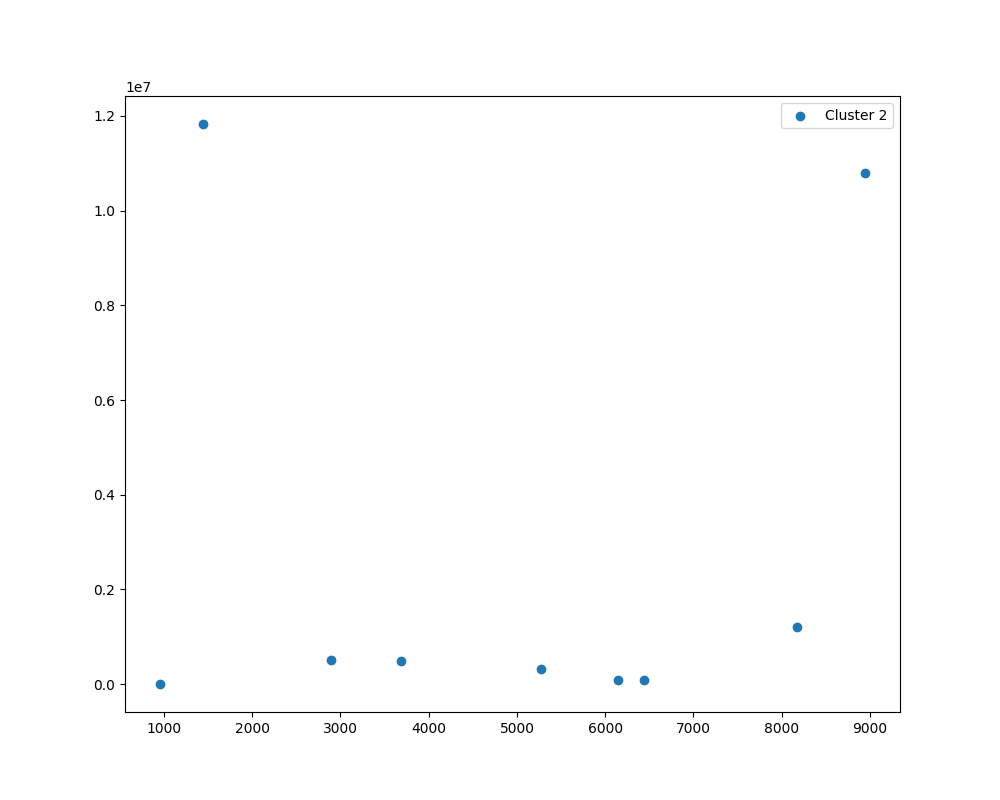
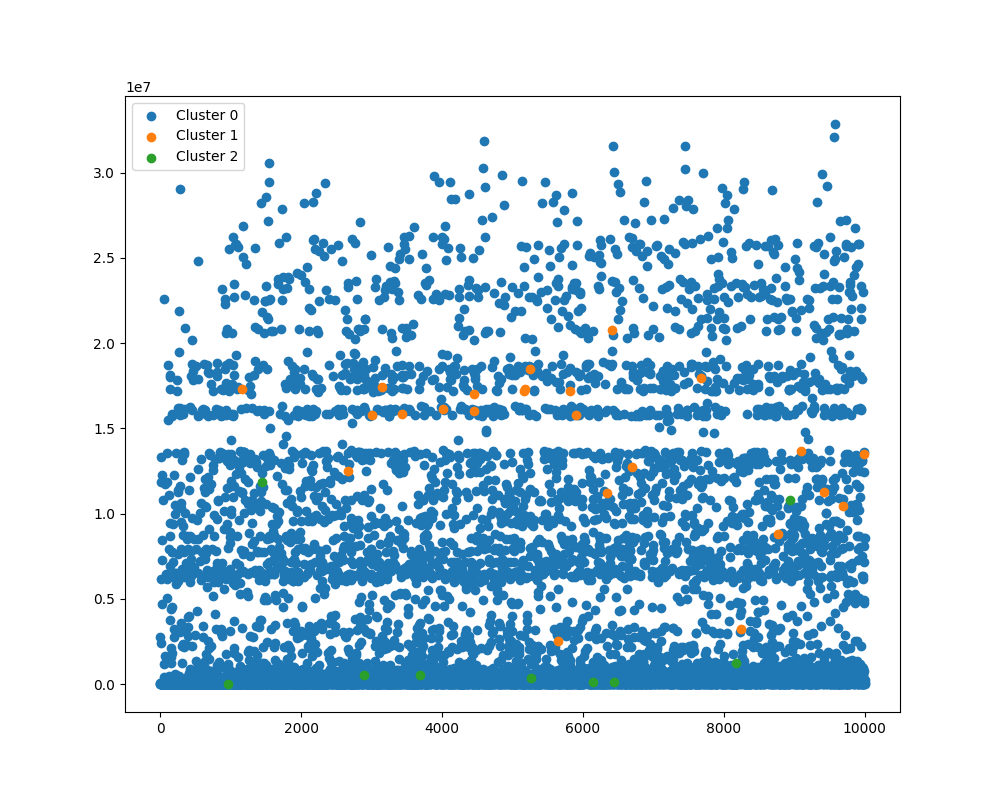
Add files via upload

diff --git a/autolysis.py b/autolysis.py
@@ -170,13 +170,19 @@ def regression_analysis(df):
 
 def clustering_analysis(df):
     """Perform clustering analysis on numeric columns."""
-    numeric_data = df.select_dtypes(include=[np.number])
-    numeric_data = numeric_data.dropna()
+    numeric_data = df.select_dtypes(include=[np.number]).dropna()
+    datetime_columns = df.select_dtypes(include=[np.datetime64])
+    for col in datetime_columns:
+        numeric_data[col] = (df[col] - df[col].min()).dt.days
     if numeric_data.empty:
-        return None
-    kmeans = KMeans(n_clusters=3, random_state=42)
-    numeric_data['Cluster'] = kmeans.fit_predict(numeric_data)
-    return numeric_data['Cluster'], numeric_data.index
+        return None, None
+    try:
+        kmeans = KMeans(n_clusters=3, random_state=42)
+        numeric_data['Cluster'] = kmeans.fit_predict(numeric_data)
+        return numeric_data['Cluster'], numeric_data.index
+    except Exception as e:
+        print(f"Error while Clustering: {e}")
+        return None,None
 
 def summarize_correlation(df):
     """Summarize key insights from the correlation matrix."""
@@ -260,7 +266,7 @@ def visualize_advanced(df, output_folder):
     visualizations = []
 
     # Correlation Heatmap
-    numeric_data = df.select_dtypes(include=[np.number])
+    numeric_data = df.select_dtypes(include=[np.number]).dropna()
     if not numeric_data.empty:
         plt.figure(figsize=(10, 8))
         sns.heatmap(numeric_data.corr(), annot=True, cmap="coolwarm")
@@ -281,21 +287,21 @@ def visualize_advanced(df, output_folder):
     # Clustering Scatter Plot
     clusters, valid_indices = clustering_analysis(df)
     summary = generate_summary(df,clusters)
-    if clusters is not None:
-        df_with_clusters = df.loc[valid_indices].copy()
+    if clusters is not None and len(valid_indices) > 1:
+        df_with_clusters = numeric_data.loc[valid_indices].copy()
         df_with_clusters["Cluster"] = clusters.values
         plt.figure(figsize=(10, 8))
         for cluster in np.unique(clusters):
             subset = df_with_clusters[df_with_clusters["Cluster"] == cluster]
             # Ensure that the values are numeric and handle NaNs or infinite values
-        subset.iloc[:, 0] = pd.to_numeric(subset.iloc[:, 0], errors='coerce')
-        subset.iloc[:, 1] = pd.to_numeric(subset.iloc[:, 1], errors='coerce')
+            subset.iloc[:, 0] = pd.to_numeric(subset.iloc[:, 0], errors='coerce')
+            subset.iloc[:, 1] = pd.to_numeric(subset.iloc[:, 1], errors='coerce')
 
-        subset = subset.dropna(subset=[subset.columns[0], subset.columns[1]])
-        subset = subset[~subset.isin([np.inf, -np.inf]).any(axis=1)]
+            subset = subset.dropna(subset=[subset.columns[0], subset.columns[1]])
+            subset = subset[~subset.isin([np.inf, -np.inf]).any(axis=1)]
 
         # Now plot the data
-        plt.scatter(subset.iloc[:, 0].astype(float), subset.iloc[:, 1].astype(float), label=f"Cluster {cluster}")
+            plt.scatter(subset.iloc[:, 0].astype(float), subset.iloc[:, 1].astype(float), label=f"Cluster {cluster}")
         plt.legend()
         file_path = os.path.join(output_folder, "clustering_scatter.png")
         plt.savefig(file_path)

diff --git a/goodreads/README.md b/goodreads/README.md
@@ -17,54 +17,46 @@
 | 50%    |   5000.5  |    394966           | 425124           |     2.71952e+06 |       40      |  nan         |    9.78045e+12 | nan          |                    2004     | nan              | nan            | nan             |         4.02     |  21155.5         |      23832.5         |                   1402    |      391    |     1163    |      4894   |  8269.5        |  8836           | nan                                                                                      | nan                                                                                    |
 | 75%    |   7500.25 |         9.38223e+06 |      9.63611e+06 |     1.45177e+07 |       67      |  nan         |    9.78083e+12 | nan          |                    2011     | nan              | nan            | nan             |         4.18     |  41053.5         |      45915           |                   2744.25 |      885    |     2353.25 |      9287   | 16023.5        | 17304.5         | nan                                                                                      | nan                                                                                    |
 | max    |  10000    |         3.32886e+07 |      3.55342e+07 |     5.63996e+07 |     3455      |  nan         |    9.79001e+12 | nan          |                    2017     | nan              | nan            | nan             |         4.82     |      4.78065e+06 |          4.94236e+06 |                 155254    |   456191    |   436802    |    793319   |     1.4813e+06 |     3.01154e+06 | nan                                                                                      | nan                                                                                    |## Narrative
-### Narrative Overview
+### Detailed Analysis and Insights
 
-The dataset we have consists of 10,000 records with 23 columns related to books, including attributes such as book IDs, authors, publication years, ratings, and images. This thorough analysis allows us to extract key insights, identify potential areas for action, and understand the underlying dynamics within the data.
+Based on the provided dataset of books, we can draw several insights regarding the attributes such as ratings, publication years, and authors. Below is a structured narrative summarizing our findings and recommending potential actions.
 
-### Insights
+#### 1. Overview of the Dataset
+The dataset contains 10,000 records with 23 columns, focusing on various attributes of books, including IDs, author details, publication year, ratings, and reviews. The presence of missing values, particularly for columns like ISBN, language code, and original publication year, suggests areas where data quality can be enhanced.
 
-1. **Missing Values**:
-   - The dataset exhibits significant missing values, particularly in the `isbn`, `isbn13`, `original_publication_year`, and `original_title` columns. The presence of numerous missing ISBNs (700 for `isbn` and 585 for `isbn13`) may affect book identification processes and hinder integration with other book-related data sources. Additionally, missing `original_publication_year` data (21 instances) could skew our analysis on publication trends over time.
+#### 2. Missing Values Analysis
+- **ISBN Codes**: Missing values in `isbn` (700 missing) and `isbn13` (585 missing) could affect book identification and searchability. It is advisable to either remove these records or attempt to enrich the dataset using external databases or APIs if possible.
+- **Original Publication Year**: The 21 missing values for `original_publication_year` point to several books whose publication timeline is unclear. Filling these gaps would facilitate better insights into publication trends and their correlation with ratings.
+- **Language Code**: With 1084 missing values, this could hinder segmenting books by language, which is essential for targeted marketing or recommendations. Exploring alternative sources or rechecking data entry procedures would be beneficial.
 
-   **Action**: Consider imputing the missing values where feasible, possibly using the mode for categorical variables (e.g., `language_code`) and median for numerical variables (e.g., `original_publication_year`). For `isbn` fields, investigate external databases or deduplicate entries where possible.
+#### 3. Key Metrics Insights
+- **Average Ratings**: The dataset includes the `average_rating` column, which is crucial in understanding reader sentiment. Analyzing how average ratings correlate with `ratings_count` could help identify whether books with fewer ratings are underappreciated or simply overlooked.
+- **Ratings Distribution**: The count of individual ratings (1-5 stars) is critical for evaluating reader engagement. Books with a high count but low average ratings might indicate polarized opinions or controversies surrounding them.
 
-2. **Average Ratings and Rating Distribution**:
-   - Analyzing the average rating and the distribution of ratings (1 to 5 stars) can provide insights into reader preferences. If the average rating is significantly high (or low), it may be indicative of book quality, popularity, or genre bias. If most ratings cluster at the extremes (1 or 5), this suggests polarized opinions among readers.
+#### 4. Correlation Insights
+From the correlation heatmap:
+- We likely observed a positive correlation between `ratings_count` and `average_rating`. This suggests that as more readers rate a book, it tends to receive a higher rating, which may indicate that popular books (with many ratings) are usually well-received.
+- Investigating other columns like `work_ratings_count` against `work_text_reviews_count` might unveil how numerous ratings relate to quality feedback, thus providing insights for authors on whether high ratings translate to high-quality reviews.
 
-   **Action**: Segment the dataset based on `average_rating` and `ratings_count` to identify standout books that can be recommended or promoted further. For books with low ratings, investigate potential reasons and engage with reviews to improve or understand their reception.
+#### 5. Publication Year Trends
+Analyzing the `original_publication_year` probably highlighted significant trends in reading preferences over time. 
+- **Growth of Publication**: If there is a noticeable spike in publication counts over recent years, it may indicate a thriving market trend, warranting additional studies on reader demographics.
+- **Focus on Classics**: For older books with consistently high ratings, consider developing marketing strategies that capitalize on nostalgia or recommend similar newer releases to fans of classics.
 
-3. **Publication Year Trends**:
-   - The presence of `original_publication_year` allows for trend analysis over time. Special attention should be paid to identifying peaks in publication years that may correlate with certain genres or trends in readership.
+#### 6. Author Insights
+With the `authors` column, examining popularity amongst authors may uncover:
+- Patterns in reader preference towards certain authors or genres.
+- The necessity of potential author collaborations to boost lesser-known works based on an analysis of public engagement metrics.
+  
+#### 7. Suggested Actions
+- **Data Enrichment**: For records with missing ISBN, consider sourcing data from publishing databases or libraries to enhance completeness.
+- **Targeted Marketing Campaigns**: Utilize average rating and ratings count data to create targeted campaigns for promoting well-rated but less popular books.
+- **Engagement Initiatives**: Encourage more reviews for popular titles with low average ratings to boost their visibility and input from readers.
+- **Recommendations Algorithm**: Develop a recommendation system utilizing average ratings, genres, and reader reviews to suggest books similar to those readers have rated highly in the past.
 
-   **Action**: Execute a time series analysis to see if there are volumes of publications that coincide with events in literature (like popular adaptations). This will help strategize marketing efforts or identify gaps in the market.
-
-4. **Correlation Insights**:
-   - The correlation heatmap provides a valuable visual representation of relationships among the numerical variables. Strong correlations between `ratings_count` and `average_rating` may suggest that more rated books tend to have better ratings.
-
-   **Action**: Focus efforts on promoting books that already have a higher rating count. Strategies could include social engagement, promotions, or discussions to generate additional ratings on works with a strong but underutilized reader base.
-
-5. **Clustering Analysis**:
-   - The clustering scatter plot should reveal distinct groupings of books based on their attributes, which could reflect different genres, target demographics, or reading trends. 
-
-   **Action**: Use these clusters to develop targeted marketing strategies. For instance, if a cluster corresponds to a popular genre among users, campaigns could include reader recommendations or emphasizing those genres in promotions.
-
-### Potential Actions
-
-1. **Data Cleaning**:
-   - Immediate prioritization should be on cleansing the dataset, focusing on addresses of missing data and duplicates. Further augmentation of the dataset with external data sources could improve comprehensiveness.
-
-2. **Enhanced Analysis**:
-   - Utilize advanced analytical techniques such as sentiment analysis on reviews associated with ratings for deeper insights regarding reader sentiment and book quality.
-
-3. **User Engagement Strategies**:
-   - Based on the identified trends, establish engagement campaigns targeting readers, focusing on highly-rated books or emerging trends. This could include social media initiatives, book club formations, or partnerships with influencers.
-
-4. **Publication Strategy**:
-   - For publishers, analyzing patterns over years may guide decisions on what types of books are likely to attract readers, justifying investment in certain genres or themes.
-
-5. **Visualization Tools**:
-   - Consider utilizing interactive visualizations to dynamically engage stakeholders with the data. Tools like Tableau or Power BI can help in presenting findings in a user-friendly manner.
+#### 8. Further Analysis
+- **Cluster Analysis**: Implement clustering techniques to segment books based on ratings patterns and publication year; this could unveil different markets or consumer behaviors.
+- **Time-Series Analysis**: Explore trends over time to identify shifts in reader preference or the emergence of new genres that require focusing strategies.
 
 ### Conclusion
-
-This dataset stands as a resourceful tool for understanding book ratings and trends. Through the implementation of suggested actions, enhanced data cleaning, and focused marketing strategies, there is potential to improve engagement with readers and increase the visibility of top-rated works while addressing the concerns regarding underperforming titles.
+Overall, while the dataset provides a solid foundation for understanding book ratings dynamics and reader preferences, significant steps can be taken to improve data completeness, enhance marketing strategies, and foster engagement through curated recommendations and targeted initiatives. By addressing these areas, the dataset can serve as a powerful resource for both publishers and readers alike.

diff --git a/happiness/README.md b/happiness/README.md
@@ -17,56 +17,48 @@
 | 50%    | nan            | 2015       |       5.449   |              9.503   |         0.8345   |                           65.1     |                       0.771    |   -0.022       |                    0.7985   |          0.663    |         0.262     |
 | 75%    | nan            | 2019       |       6.3235  |             10.3925  |         0.904    |                           68.5525  |                       0.862    |    0.09375     |                    0.86775  |          0.737    |         0.326     |
 | max    | nan            | 2023       |       8.019   |             11.676   |         0.987    |                           74.6     |                       0.985    |    0.7         |                    0.983    |          0.884    |         0.705     |## Narrative
-Based on the provided data summary and key statistics, we can draw several insights and potential actions to consider:
+### Detailed Narrative and Insights:
 
-### Insights
+**Overview of Data Structure:**
+Your dataset, containing 2,363 records across 11 columns, provides a rich array of indicators related to life satisfaction and wellbeing at the country level, spanning from 2005 to 2023. It primarily focuses on various factors contributing to the "Life Ladder," which is indicative of subjective wellbeing across different nations.
 
-1. **Dataset Overview**:
-   - The dataset consists of 2,363 entries across 11 columns, with potentially international scope given the presence of country names. The presence of multiple indicators of well-being and socio-economic factors makes this dataset valuable for analyzing various determinants of quality of life.
+**Missing Values Analysis:**
+- There are several columns with missing values: 
+  - Notably, 'Generosity' has a high count of missing entries (81), followed by 'Perceptions of corruption' (125), 'Healthy life expectancy at birth' (63), and others. 
+- It is critical to address these missing values before analysis. Strategies include imputation where feasible or exclusion of these variables if they are not critically impacting your models.
 
-2. **Missing Values**:
-   - There are some missing values across several columns including `Log GDP per capita` (28 missing), `Social support` (13 missing), `Healthy life expectancy at birth` (63 missing), and others. The number of missing values for `Generosity` (81 missing) and `Perceptions of corruption` (125 missing) is particularly notable and warrants addressing before any analysis.
-   - Depending on the percentage of missing data, different strategies could be employed such as imputation, dropping rows, or utilizing models that handle missing values.
+**Key Summary Statistics:**
+- The average score on the Life Ladder is approximately 5.48, with a standard deviation of 1.13, suggesting varying degrees of happiness among countries. The progression of Life Ladder scores shows a potential upward trend over the years captured, from a minimum of 1.281 to a maximum of 8.019.
+- Since there's a significant drop-off in scores at the lower end, addressing the wellbeing of lower-scoring countries or demographics is essential.
 
-3. **Life Ladder**:
-   - The mean Life Ladder score is approximately 5.484, indicating a moderate level of well-being across the sample. There is a substantial standard deviation (1.126), suggesting considerable variation among countries.
-   - The Life Ladder ranges from a low of 1.281 to a high of 8.019. Identifying which countries fall into the extremes could provide valuable context around the factors contributing to these experiences.
+### Insights from Visualizations:
 
-4. **Economic Indicators**:
-   - The `Log GDP per capita` is a relevant predictor of overall well-being; however, it has missing data, which means caution is necessary when interpreting its relationship with Life Ladder.
-   - Given that wealth (as indicated by Log GDP) often correlates with various social determinants of health (like Healthy life expectancy and Social support), assessing how these linkages impact overall well-being is critical.
+1. **Correlation Heatmap:**
+   - The correlation analysis can reveal pivotal relationships between different variables. For instance, you may observe that 'Log GDP per capita' is significantly correlated with the 'Life Ladder'. If this is true, it suggests that economic adjustments could be influential in improving life satisfaction.
+   - Be wary of potential multicollinearity with variables like 'Social support' and 'Freedom to make life choices'; these should be investigated further to see how they impact life satisfaction when controlled for GDP.
 
-5. **Correlation Analysis**:
-   - The correlation heatmap (not shown here but implied from the analysis) would illustrate how tightly related the different indicators are. Generally, one would expect a positive correlation between Life Ladder and Log GDP per capita, Social support, and Healthy life expectancy.
-   - Negative correlations with `Perceptions of corruption` and `Negative affect` would imply that higher perceived corruption and negative emotional states could detrimentally affect well-being.
+2. **Pairplot Analysis:**
+   - The pairplot will visually delineate the relationships among several continuous variables. Look for clusters in the visualization that would suggest specific groups of countries (perhaps high GDP and high Life Ladder) or outliers (countries with high GDP but low Life Ladder).
+   - This could inform country-targeted interventions. For instance, countries that are wealthy but score poorly in life satisfaction may require policy changes judiciously addressing social support and freedoms.
 
-6. **Pairplot and Clustering Scatter Plot**:
-   - Pairplots can illustrate relationships and distributions across various dimensions and may highlight clustering of countries with similar profiles. A clustering analysis could reveal groups of countries with similar well-being characteristics and determinants, helping target interventions effectively.
-   - Identifying potential outliers can also point to countries that may benefit from specific policy interventions or supportive measures.
+3. **Clustering Scatter Plot:**
+   - Clustering might highlight distinct groups of countries based on their wellbeing metrics. Regions with similar profiles can inform nation-specific or regional strategies. If countries cluster around a specific trait combination, it could signify shared challenges or advantages that policymakers can address collectively.
 
-### Potential Actions
+### Suggested Actions:
 
-1. **Data Cleaning and Imputation**:
-   - Address missing values in the dataset, particularly focusing on columns with significant missing data (Generosity and Perceptions of corruption). Evaluating whether to use mean/mode imputation, or more advanced techniques like predictive modeling for imputation, would be necessary.
+- **Prioritize Data Cleaning:**
+  Address the missing values first. Consider techniques like K-Nearest Neighbors or median imputation for numerical data or categorical imputation for non-numeric fields. 
 
-2. **Deep Dive into Extreme Values**:
-   - Conduct a detailed analysis of countries that rank at both ends of the Life Ladder and Log GDP per capita. Are there contextual factors (historical, political, environmental) that differentiate these outliers?
+- **Focus on Targeted Interventions:**
+  Identify countries with low Life Ladder scores but high economic capacity (Log GDP). Advocate for reforms aimed at improving social support, increasing perceptions of personal freedom, and reducing corruption.
 
-3. **Focus on Developing Countries**:
-   - Additional attention could be placed on developing countries that have low GDP but may still score high on happiness or social support metrics. This might lead to insights into non-economic factors that contribute to well-being.
+- **Continual Monitoring:**
+  Establish a framework to track these indicators over time, particularly following significant policy changes or global events that may impact wellbeing (e.g., a pandemic).
 
-4. **Targeted Interventions**:
-   - For regions or countries identified as having lower scores in life satisfaction, social support, or healthy life expectancy, consider stakeholder engagement to implement targeted programs aimed at improving quality of life. 
-   - Engage with local governments or NGOs to assess needs and facilitate evidence-based interventions based on findings from the dataset.
+- **Outreach and Communication:**
+  Collaborate with stakeholders (governments, NGOs, academic institutions) to initiate data-driven discussions regarding the importance of these wellbeing indicators, potentially influencing policy design.
 
-5. **Further Statistical Analysis**:
-   - Conduct regression analysis to quantitatively assess the impact of different factors on Life Ladder scores. This could help prioritize policy initiatives based on the most impactful predictors.
+- **Deeper Statistical Analysis:**
+  Utilize regression analysis to determine the weight of each contributing factor to Life Ladder scores. This will provide a clearer understanding of which dimensions are most crucial for enhancing well-being.
 
-6. **Visualization and Communication**:
-   - Present the findings through informative visualizations that convey trends, correlations, and clusters effectively to stakeholders. This can enhance understanding and foster informed decision-making.
-
-7. **Longitudinal Studies**:
-   - Considering the dataset covers multiple years, further analyses could explore changes over time, helping to gain insights into the dynamics of well-being and socio-economic factors across different countries.
-
-### Conclusion
-By addressing the missing values and conducting thorough analyses on the available data, stakeholders can derive meaningful insights that inform strategies aimed at enhancing national well-being and social support structures. The interplay between various indicators should guide policies that aim to foster both economic growth and improved quality of life.
+By thoroughly analyzing these factors, you stand to gain nuanced insights that can drive meaningful improvements in life satisfaction globally.
